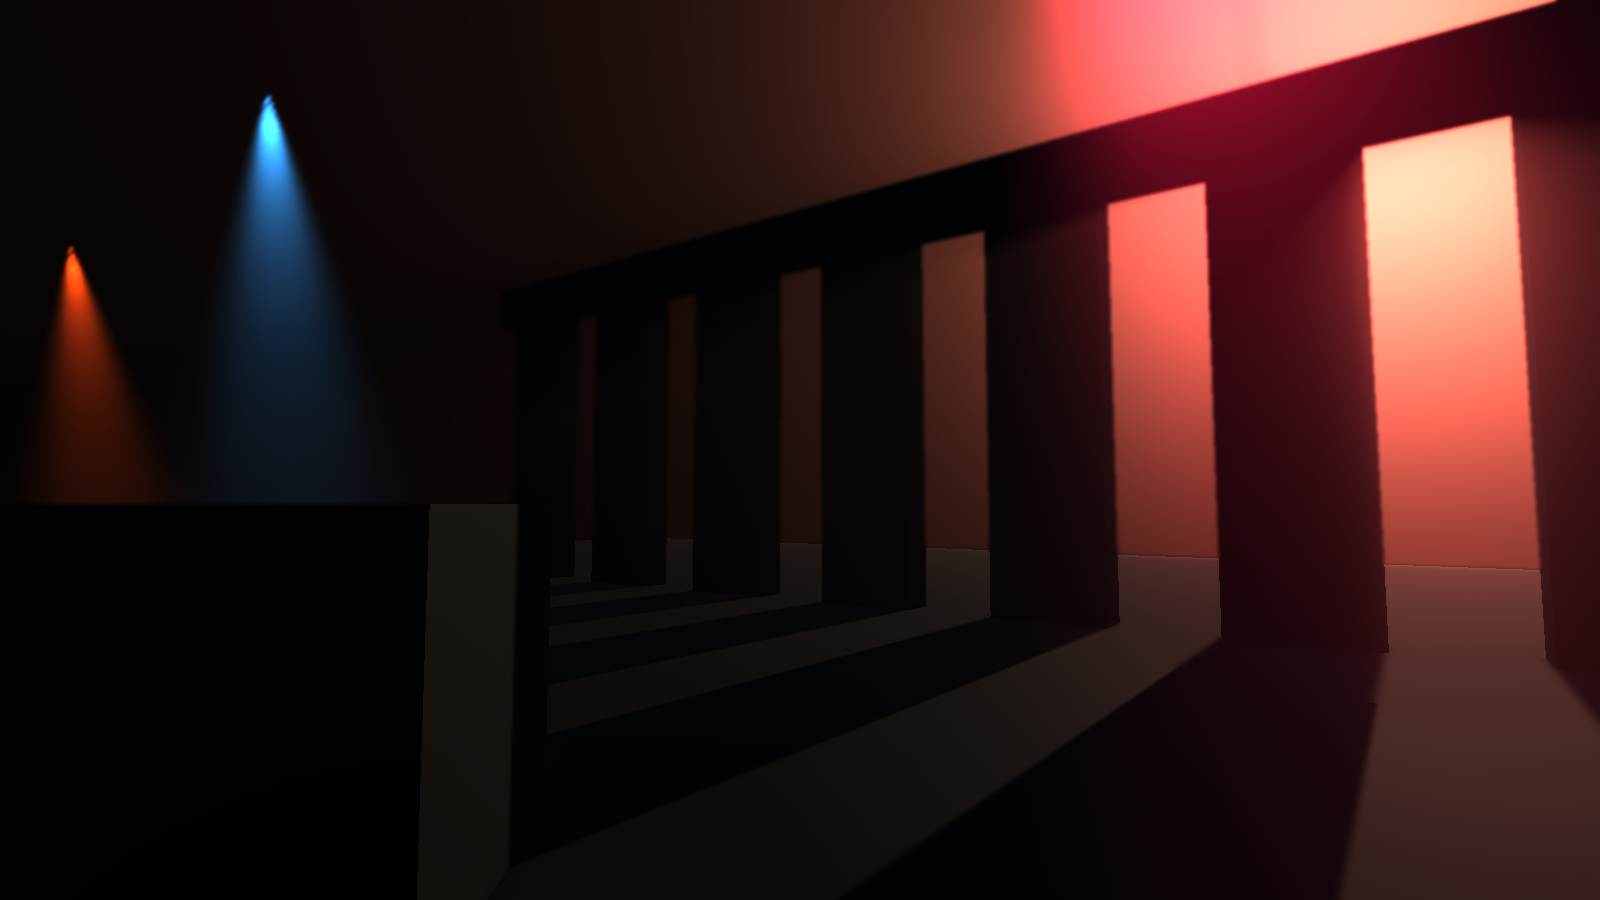
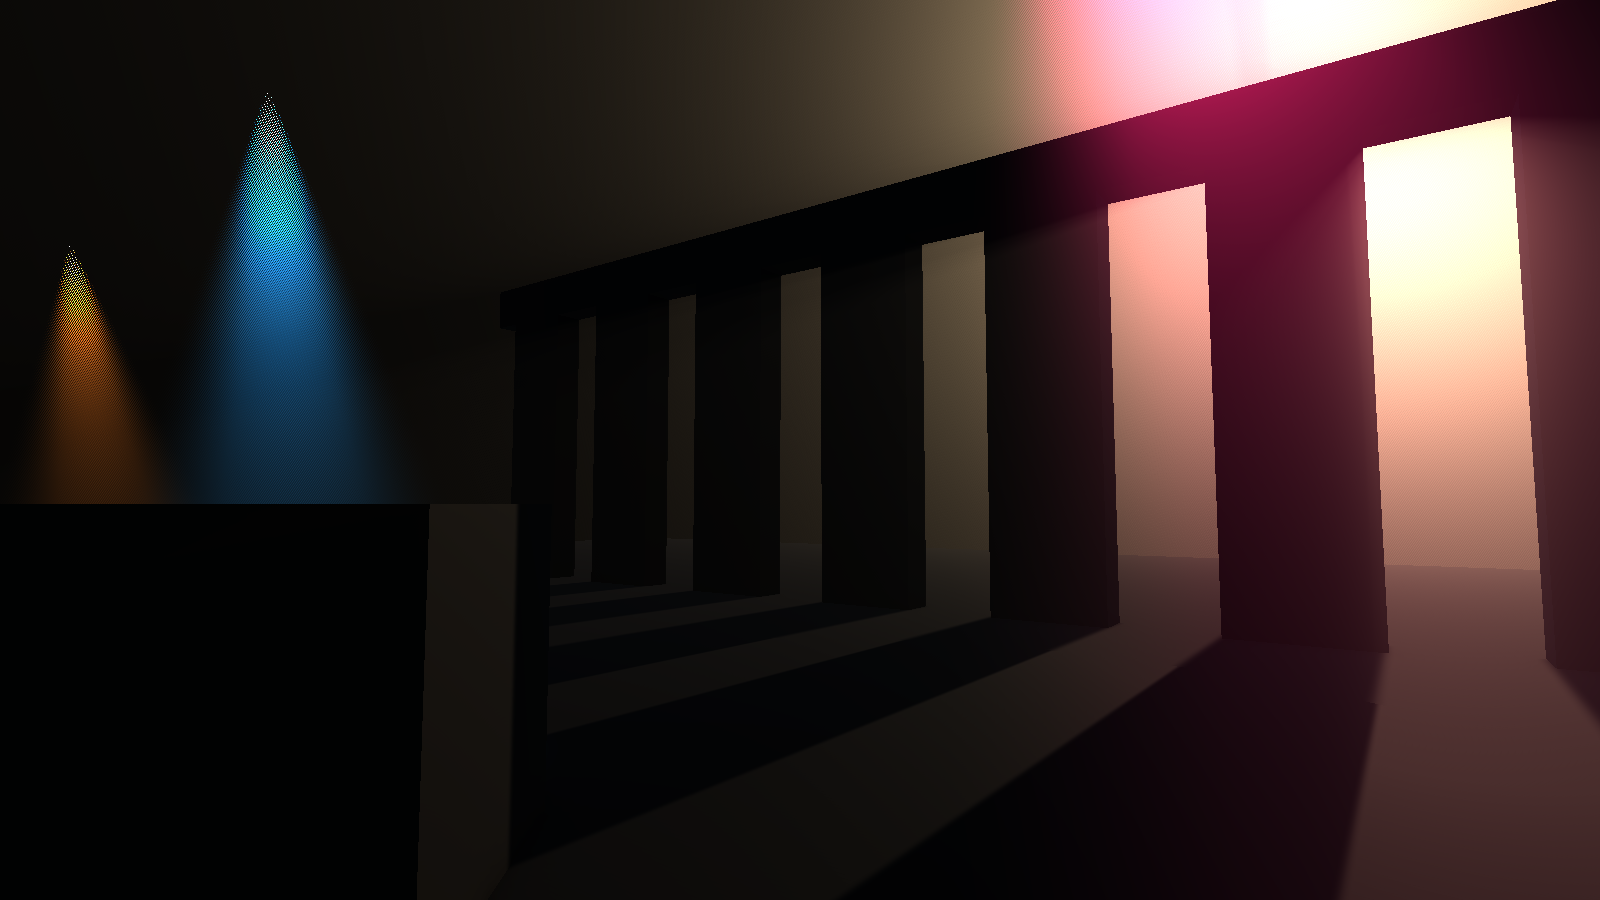
Make low resolutions sharp, and stop blurring by default
Quarter and Half looked mushy for a reason that had nothing to do with the
blur: the volumetric buffer was upsampled bilinearly, so the fog smeared a
full low-res texel past every silhouette and every pillar edge picked up a
blocky halo. Resolution was effectively unusable below Full.

The raymarch now stores the scene depth each texel was marched against in the
buffer's alpha, and the composite does a joint bilateral upsample: taps whose
depth disagrees with the pixel are rejected, so the fog ends exactly on the
geometry edge. Silhouettes are crisp at Quarter; resolution now only changes
how coarse the fog is, which is what it should have meant all along.

Blur Iterations now defaults to 0. The dither is an undersampling artifact
and the honest dial for it is step length (Max Distance / Steps): ~1 m
dithers, ~0.35 m is smooth. The blur stays as an opt-in trade for step budget,
and no longer smears the depth it now has to preserve in alpha.

Also declares the camera depth texture as a Render Graph read on both passes
instead of relying on it happening to be bound globally.

diff --git a/Runtime/VolumetricLightingFeature.cs b/Runtime/VolumetricLightingFeature.cs
@@ -24,10 +24,10 @@ namespace VolumetricLighting
             [Tooltip("Lower = sharper but more expensive. Quarter is the recommended mobile default.")]
             public Resolution resolution = Resolution.Half;
 
-            [Tooltip("Separable gaussian passes over the volumetric buffer before compositing. " +
-                     "This is what removes the raymarch dither: 1 is enough in most scenes, 2 for very " +
-                     "bright spot cones. 0 skips the blur entirely - cheapest, and the dither comes back.")]
-            [Range(0, 3)] public int blurIterations = 1;
+            [Tooltip("Optional separable gaussian over the volumetric buffer, for trading the " +
+                     "raymarch dither against softer shafts. Off by default: raising Steps keeps the " +
+                     "image sharp, which is usually what you want. 1-2 if you need smooth on a step budget.")]
+            [Range(0, 3)] public int blurIterations = 0;
 
             [Tooltip("Auto-resolved if left empty.")]
             public Shader shader;
@@ -93,7 +93,7 @@ namespace VolumetricLighting
             private static readonly int SpotPosID      = Shader.PropertyToID("_VL_SpotPos");
             private static readonly int SpotDirID      = Shader.PropertyToID("_VL_SpotDir");
             private static readonly int SpotColorID    = Shader.PropertyToID("_VL_SpotColor");
-            private static readonly int BlurTexelID    = Shader.PropertyToID("_VL_BlurTexel");
+            private static readonly int VolTexelID     = Shader.PropertyToID("_VL_VolumetricTexel");
 
             private const int PassRaymarch  = 0;
             private const int PassComposite = 1;
@@ -229,7 +229,11 @@ namespace VolumetricLighting
                 };
                 TextureHandle volTex = renderGraph.CreateTexture(volDesc);
 
+                // Both the blur and the depth-aware composite work in volumetric texels.
+                _material.SetVector(VolTexelID, new Vector4(1f / w, 1f / h, 0f, 0f));
+
                 TextureHandle cameraColor = resourceData.cameraColor;
+                TextureHandle cameraDepth = resourceData.cameraDepthTexture;
 
                 // Raymarch into the off-screen RT.
                 using (var builder = renderGraph.AddRasterRenderPass<PassData>("Volumetric Raymarch", out var data))
@@ -238,6 +242,7 @@ namespace VolumetricLighting
                     data.passIndex = PassRaymarch;
 
                     builder.SetRenderAttachment(volTex, 0, AccessFlags.Write);
+                    if (cameraDepth.IsValid()) builder.UseTexture(cameraDepth, AccessFlags.Read);
                     builder.AllowPassCulling(false);
                     builder.AllowGlobalStateModification(true);
 
@@ -253,8 +258,6 @@ namespace VolumetricLighting
                 // undersample the kernel itself and alias the dither into a coarser pattern.
                 if (_settings.blurIterations > 0)
                 {
-                    _material.SetVector(BlurTexelID, new Vector4(1f / w, 1f / h, 0f, 0f));
-
                     var blurDesc = volDesc;
                     blurDesc.name = "_VL_VolumetricBlur";
                     blurDesc.clearBuffer = false;
@@ -267,11 +270,11 @@ namespace VolumetricLighting
                     }
                 }
 
-                // Additive composite directly into camera color (no extra fullscreen copy).
-                AddBlitPass(renderGraph, "Volumetric Composite", volTex, cameraColor, PassComposite);
+                // Depth-aware upsample + additive composite, straight into camera color.
+                AddBlitPass(renderGraph, "Volumetric Composite", volTex, cameraColor, PassComposite, cameraDepth);
             }
 
-            private void AddBlitPass(RenderGraph renderGraph, string name, TextureHandle source, TextureHandle target, int passIndex)
+            private void AddBlitPass(RenderGraph renderGraph, string name, TextureHandle source, TextureHandle target, int passIndex, TextureHandle depth = default)
             {
                 using (var builder = renderGraph.AddRasterRenderPass<PassData>(name, out var data))
                 {
@@ -280,6 +283,7 @@ namespace VolumetricLighting
                     data.volumetric = source;
 
                     builder.UseTexture(source, AccessFlags.Read);
+                    if (depth.IsValid()) builder.UseTexture(depth, AccessFlags.Read);
                     builder.SetRenderAttachment(target, 0, AccessFlags.Write);
                     builder.AllowPassCulling(false);
 

diff --git a/README.md b/README.md
@@ -14,20 +14,20 @@ through the air.
 </p>
 
 <sub>The demo scene (`Samples/Demo.unity`) at 1600×900, Full resolution,
-128 raymarch steps, 1 blur iteration. Right: the same scene with the sun
-turned off — only the three `VolumetricSpotLight` cones remain.</sub>
+no blur. Right: the same scene with the sun turned off — only the three
+`VolumetricSpotLight` cones remain.</sub>
 
-## Blur off / on
+## Blur off / on (optional)
 
 <p align="center">
   <img src="Documentation/images/denoise-off.png" width="49%" alt="Blur Iterations 0 - the raymarch jitter shows as dither">
   <img src="Documentation/images/denoise-on.png" width="49%" alt="Blur Iterations 1 - smooth cones">
 </p>
 
-<sub>`Blur Iterations` 0 and 1 on the renderer feature. The raymarch offsets each
-pixel's samples by a noise pattern to trade banding for noise; without a filter
-that noise is what you see. One separable gaussian over the volumetric buffer
-resolves it — see [The dither, and how to get rid of it](#the-dither-and-how-to-get-rid-of-it).</sub>
+<sub>`Blur Iterations` 0 (the default) and 1. The blur is a trade, not an
+upgrade: it buys smooth cones on a small step budget and costs you crisp shaft
+edges. Raising `Steps` gets you smooth *and* sharp — see
+[The dither](#the-dither).</sub>
 
 ## Same frame, effect off / on
 
@@ -88,16 +88,20 @@ desktop starting point.
 |---|---|
 | `Injection Point` | When the pass runs. Default `BeforeRenderingTransparents`, so transparents composite over the fog. |
 | `Resolution` | Raymarch buffer size: `Full`, `Half`, `Quarter`. **Quarter** is the mobile default, `Full` for stills and desktop. |
-| `Blur Iterations` | Separable gaussian passes over the volumetric buffer before compositing. **1** removes the raymarch dither and is the default; **2** for very bright spot cones; **0** skips the blur entirely (two passes cheaper, and the dither comes back). |
+| `Blur Iterations` | Optional separable gaussian passes over the volumetric buffer. **0** (default) keeps the shafts crisp. **1–2** trades that crispness for smooth cones when you cannot afford the `Steps` that would do it properly. |
 | `Shader` | Auto-resolved to `Hidden/VolumetricLighting`; leave it empty. |
 
 ### Presets that work
 
-| | Resolution | Blur Iterations | Steps (Volume) |
-|---|---|---|---|
-| **Mobile** | Quarter | 1 | 16–24 |
-| **Balanced** | Half | 1 | 32–48 |
-| **PC / stills** | Full | 1–2 | 64–128 |
+| | Resolution | Blur Iterations | Steps | Max Distance |
+|---|---|---|---|---|
+| **Mobile** | Quarter | 0 | 16–24 | 30–40 m |
+| **Balanced** | Half | 0 | 32–48 | 40–60 m |
+| **PC / stills** | Full | 0 | 96–128 | 40–50 m |
+
+`Resolution` changes how *coarse* the fog is, never how sharp the frame is:
+the composite is depth-aware, so silhouettes stay crisp at Quarter. Pick it
+on your frame budget alone.
 
 ## How it works
 
@@ -111,10 +115,15 @@ Recorded on the Render Graph:
    screen-space shadow texture, which is meaningless for a point floating in
    mid-air — and every registered spot light is accumulated analytically.
    The loop early-outs once transmittance drops below 1%.
-2. **Blur**, `Blur Iterations` times: a 9-tap gaussian folded into 5 bilinear
-   fetches, horizontal then vertical, over the volumetric buffer only.
-3. **Composite** the result into camera colour with hardware additive
-   blending (`Blend One One`) — no extra fullscreen copy.
+2. **Blur**, `Blur Iterations` times (0 by default, so usually skipped): a
+   9-tap gaussian folded into 5 bilinear fetches, horizontal then vertical,
+   over the volumetric buffer only.
+3. **Composite** into camera colour with hardware additive blending
+   (`Blend One One`) — no extra fullscreen copy. The upsample is
+   **depth-aware**: the raymarch stores, in the buffer's alpha, the scene
+   depth each texel was marched against, and the composite rejects the taps
+   that belong to a different surface. That is what keeps a Quarter-resolution
+   buffer from smearing a four-pixel halo around every silhouette.
 
 Spot lights are packed CPU-side into three `Vector4` arrays (position +
 1/range, forward + cos(outer), colour·intensity + cos(inner)) and culled by
@@ -127,44 +136,49 @@ intermediate colour target. Without it URP renders straight to the back
 buffer in simple frames and the composite — which reads a texture while
 writing camera colour — silently does nothing.
 
-## The dither, and how to get rid of it
+## The dither
 
 Marching a fixed number of steps through a light shaft quantises it into
-bands. The standard cure is to offset each pixel's first sample by a noise
-pattern, which is what the raymarch does — that trades the bands for
-per-pixel noise, on the assumption that something downstream will resolve
-the noise. With nothing downstream, you see the noise directly, and because
-the pattern is interleaved gradient noise it reads as a regular dither
-rather than as grain.
+bands. The raymarch offsets each pixel's first sample by a noise pattern to
+trade those bands for noise, on the usual assumption that something
+downstream resolves it. Nothing does here, so you see the noise — and since
+the pattern is interleaved gradient noise it reads as a regular dither rather
+than as grain. Plenty of people like it; it is not a bug you have to remove.
 
-It shows up **where a step is too coarse for how fast the light changes over
+It appears **where one step is too coarse for how fast the light changes over
 it**, which is why it lands on spot cones and not on broad sun shafts: close
 to the bulb, the whole cone profile can be narrower than a single step.
 
-Two knobs, and they work together:
+So the number that governs it is the **step length**:
 
-- **`Blur Iterations` (renderer feature)** — one separable gaussian over the
-  volumetric buffer. This is the cheap fix and it is on by default. Because
-  the buffer is off-screen and often at half or quarter resolution, the blur
-  is nearly free, and it only ever touches the fog: geometry, edges and the
-  rest of the frame are untouched.
-- **`Steps` (Volume)** — the actual fix, since the dither is an undersampling
-  artifact. Raising `Steps`, or lowering `Max Distance` so the same steps
-  cover less ground, attacks the cause rather than the symptom.
+```
+step length = Max Distance / Steps
+```
 
-At `Blur Iterations` 1 the demo scene is clean at 64 steps everywhere except
-the last metre before each bulb; at 128 steps it is clean everywhere. On
-mobile, Quarter resolution with 1 iteration and 16–24 steps stays smooth
-because the low-resolution buffer is itself a filter.
+Around **1 m** the cones dither. Around **0.35 m** they are smooth, and only
+the last metre before each bulb still shows anything. In the demo scene that
+is 128 steps over 45 m. Lowering `Max Distance` is usually the cheaper half of
+that trade — marching 127 m through a 40 m room spends most of the budget on
+nothing.
 
-Widening happens by **repeating** the kernel, not by stretching its taps:
-spreading a 5-tap gaussian over more texels undersamples the kernel and
-aliases the dither into a coarser, more visible pattern.
+`Blur Iterations` is the fallback when you cannot afford those steps: one
+separable gaussian over the volumetric buffer. It works, and it costs shaft
+crispness — which is why it is off by default.
+
+Two things worth knowing if you do turn it on:
+
+- Widening happens by **repeating** the kernel, not by stretching its taps.
+  Spreading a 5-tap gaussian over more texels undersamples the kernel itself
+  and aliases the dither into a coarser, more visible pattern.
+- The blur is not depth-aware (only the upsample is), so at Half or Quarter it
+  can pull a little fog past a silhouette.
 
 ## Mobile guidance
 
-- Renderer feature resolution → **Quarter**.
-- `Steps` 16–24, `Density` 0.1–0.3, `Max Distance` 30–40 m.
+- Renderer feature resolution → **Quarter**. Edges stay sharp there; only the
+  fog itself gets coarser.
+- `Steps` 16–24, `Density` 0.1–0.3, `Max Distance` 30–40 m — keep
+  `Max Distance` tight, it is what makes low step counts usable.
 - Keep 2–4 `VolumetricSpotLight` visible at once.
 - Set `Intensity` to 0 whenever the sun is not the story: it removes the
   shadow-map sample from the inner loop, which is the expensive part.
@@ -177,10 +191,10 @@ aliases the dither into a coarser, more visible pattern.
 - **8 active spot lights** maximum. Raise `VolumetricSpotLight.MaxActive` and
   `VL_MAX_SPOTS` in the shader together if you need more.
 - **Point lights are not supported** — directional and spot only.
-- **No temporal reprojection and no bilateral upsample.** The blur is a plain
-  gaussian, so at Half or Quarter resolution the fog can bleed a pixel or two
-  past a hard geometry edge, and very bright thin cones want `Blur Iterations`
-  2 or a higher `Steps` rather than the default.
+- **No temporal reprojection.** The jitter is resolved by step count alone
+  (or by the optional blur), never across frames, so the dither is stable and
+  does not shimmer — but it also never averages itself out for free.
+- The optional blur is a plain gaussian; only the upsample knows about depth.
 
 ## License
 
